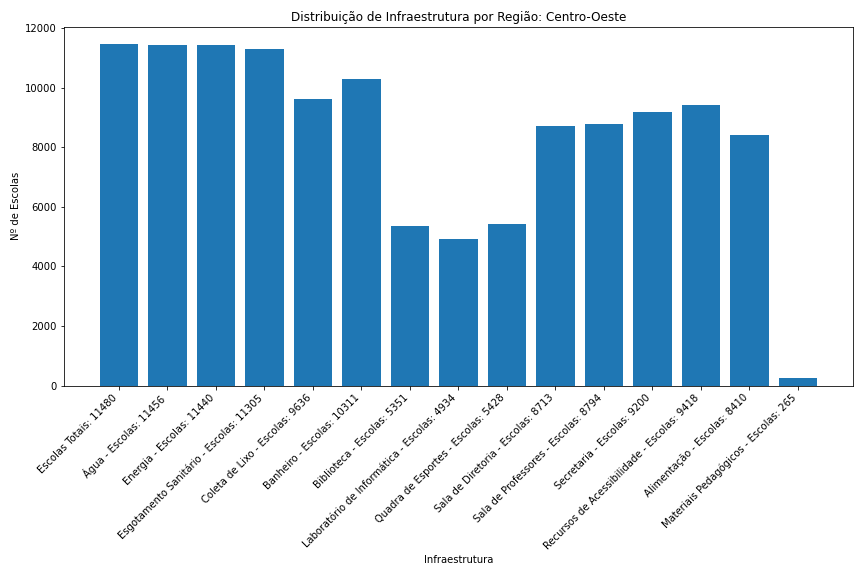
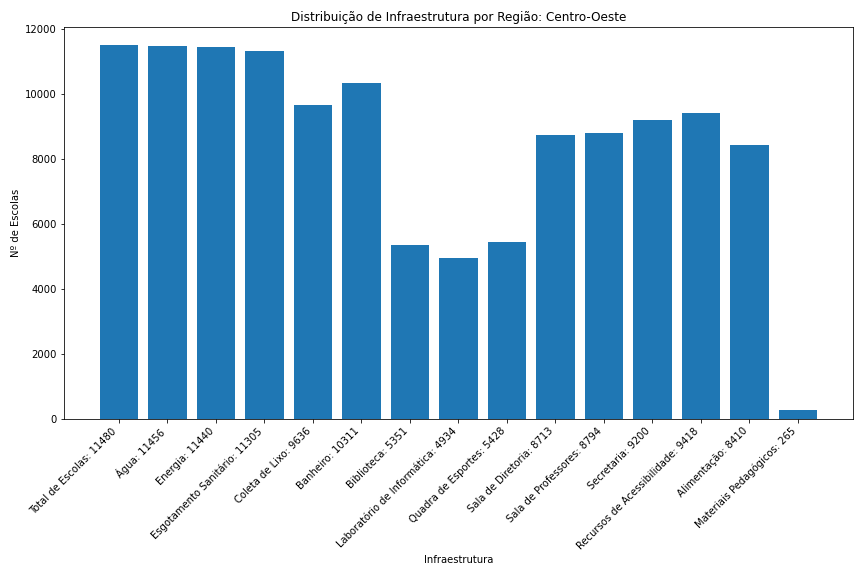
Gráficos Prontos

diff --git a/graficos.py b/graficos.py
@@ -37,7 +37,7 @@ for i, regiao in enumerate(regioes):
     qtde_infra = []
 
     # Adiciona a label com o número total de escolas por região
-    labels.append(f"Escolas Totais: {total_escolas_por_regiao[i]}")
+    labels.append(f"Total de Escolas: {total_escolas_por_regiao[i]}")
     qtde_infra.append(total_escolas_por_regiao[i])
 
     for column, label in marcacao.items():
@@ -50,7 +50,7 @@ for i, regiao in enumerate(regioes):
             value = total_escolas - value
 
         # Adiciona o número total para cada label
-        labels.append(f"{label} - Escolas: {value}")
+        labels.append(f"{label}: {value}")
         qtde_infra.append(value)
 
     index = np.arange(len(labels))
